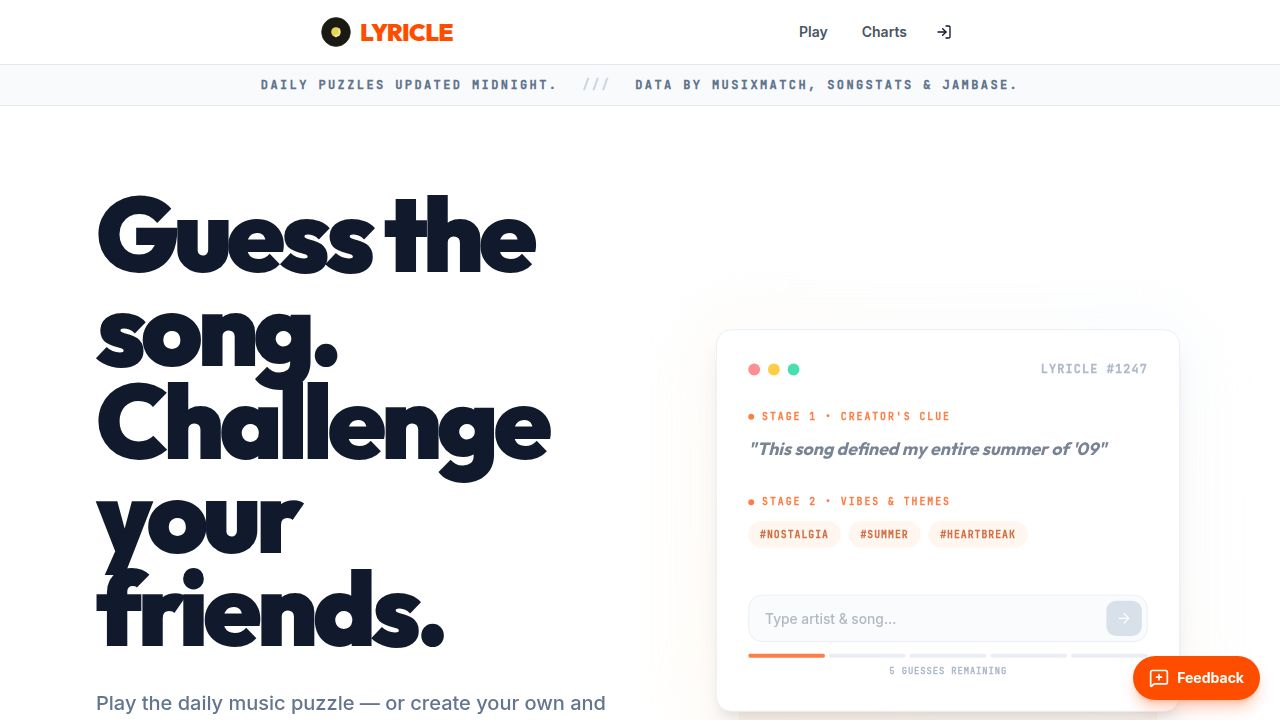
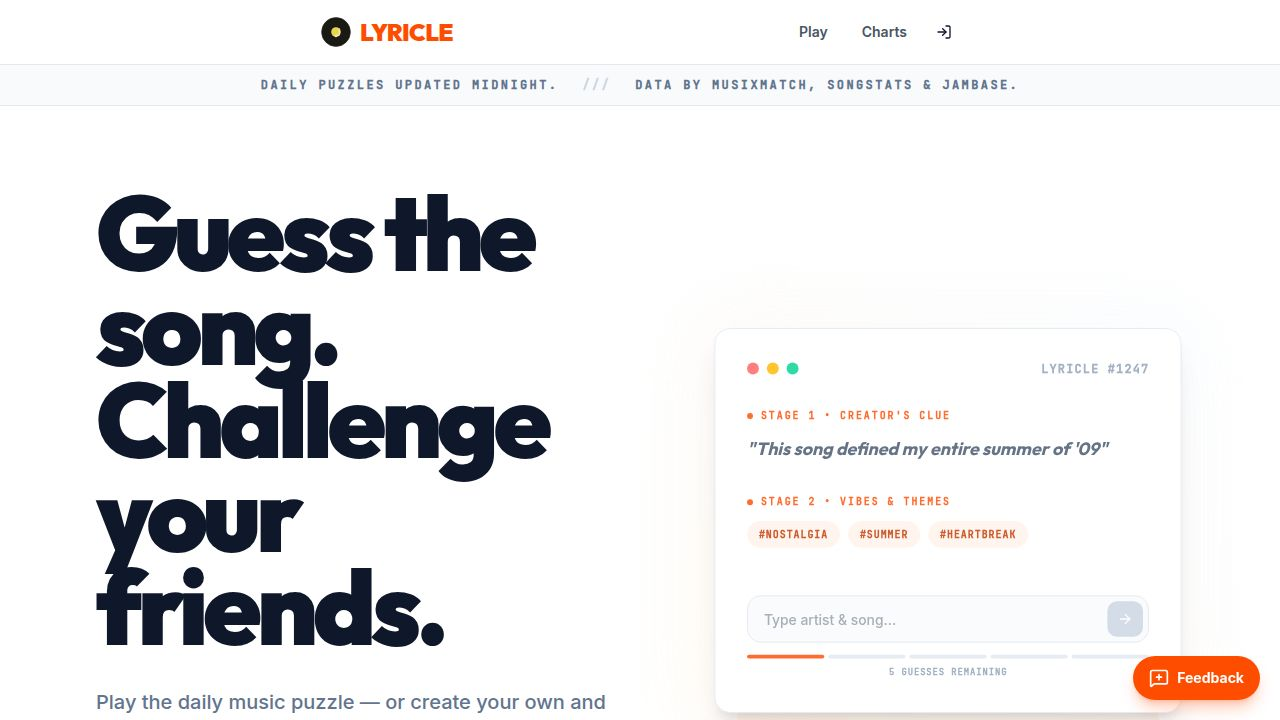
feat: copy direct challenge link from result modal (task #79)
Changed the "Challenge a friend" button on the ResultModal end screen from
navigating to /create to instead generating a direct duel link and copying
it to the clipboard in one tap.

Changes in ResultModal.tsx:
- Added `handleChallengeFriend` async function that:
  - If logged in: POSTs to /api/duels with the current daily puzzle state
    (wager: 0, cluesUsed, solveTimeMs, won) and copies the resulting
    /duel/{id} URL to the clipboard
  - If not logged in: falls back to copying the /game URL with a prompt
    to sign in for personal duels
  - Shows a toast "Link copied — send it to a friend!" on success
  - Shows an error toast if the duel API call or clipboard write fails
- Added `challengeLoading` state to disable the button and show a spinner
  while the duel is being created
- Swapped the button icon from Users → Link to better signal the copy action
- Button displays "Creating link..." while loading

No API server changes needed — the existing POST /api/duels endpoint already
supports wager: 0 and returns the duel id for link construction.

The footer "Create Duel" button is left in place as-is (it creates a duel
for the Arena lobby without copying a link).

Replit-Task-Id: a79b80b4-c4b7-4edd-8489-99e0817e6c46

diff --git a/artifacts/lyricle/src/components/ResultModal.tsx b/artifacts/lyricle/src/components/ResultModal.tsx
@@ -19,6 +19,7 @@ import {
   LogIn,
   Swords,
   Users,
+  Link,
 } from "lucide-react";
 import { useGetPuzzleAnswer, useGetPlayerStreak } from "@workspace/api-client-react";
 import { getGetPuzzleAnswerQueryKey, getGetPlayerStreakQueryKey } from "@workspace/api-client-react";
@@ -128,6 +129,7 @@ export default function ResultModal({
   const [factsLoading, setFactsLoading] = useState(false);
   const [knowMore, setKnowMore] = useState(false);
   const [country, setCountry] = useState<string | null>(null);
+  const [challengeLoading, setChallengeLoading] = useState(false);
 
   const submitted = state.resultSubmitted;
   const canRetry = !submitted && !state.retryUsed && isLoggedIn;
@@ -232,6 +234,52 @@ export default function ResultModal({
       }
     } catch {
       toast({ title: "Submission failed", description: "Please try again.", variant: "destructive" });
+    }
+  };
+
+  const handleChallengeFriend = async () => {
+    if (!isLoggedIn) {
+      const url = `${window.location.origin}${basePath}/game`;
+      try {
+        await navigator.clipboard.writeText(url);
+        toast({ title: "Link copied!", description: "Send it to a friend — sign in to create a personal duel." });
+      } catch {
+        toast({ title: "Could not copy", description: "Please copy the link manually.", variant: "destructive" });
+      }
+      return;
+    }
+
+    setChallengeLoading(true);
+    try {
+      const res = await fetch(apiUrl("/duels"), {
+        method: "POST",
+        headers: { "Content-Type": "application/json" },
+        body: JSON.stringify({
+          puzzleType: "daily",
+          puzzleRef: state.date,
+          wager: 0,
+          cluesUsed: Math.max(1, state.guesses.length),
+          solveTimeMs: state.solveTimeMs ?? 0,
+          won: state.won,
+          displayName: getPlayerData().displayName || "Anonymous",
+        }),
+      });
+      const data = await res.json();
+      if (res.ok && data.duel?.id) {
+        const duelUrl = `${window.location.origin}${basePath}/duel/${data.duel.id}`;
+        try {
+          await navigator.clipboard.writeText(duelUrl);
+          toast({ title: "Link copied — send it to a friend!", description: "They'll play the same puzzle and you'll see how you compare." });
+        } catch {
+          toast({ title: "Duel created!", description: `Share this link: ${duelUrl}` });
+        }
+      } else {
+        toast({ title: "Couldn't create challenge link", description: data.error || "Please try again.", variant: "destructive" });
+      }
+    } catch {
+      toast({ title: "Network error", description: "Please check your connection.", variant: "destructive" });
+    } finally {
+      setChallengeLoading(false);
     }
   };
 
@@ -463,11 +511,16 @@ export default function ResultModal({
           </Button>
           <Button
             variant="outline"
-            onClick={() => { window.location.href = `${basePath}/create`; }}
+            onClick={handleChallengeFriend}
+            disabled={challengeLoading}
             className="w-full gap-2 font-bold rounded-full h-11 border-2"
             data-testid="button-challenge-friend"
           >
-            <Users className="w-4 h-4" /> Challenge a friend
+            {challengeLoading ? (
+              <><Loader2 className="w-4 h-4 animate-spin" /> Creating link...</>
+            ) : (
+              <><Link className="w-4 h-4" /> Challenge a friend</>
+            )}
           </Button>
         </div>
 